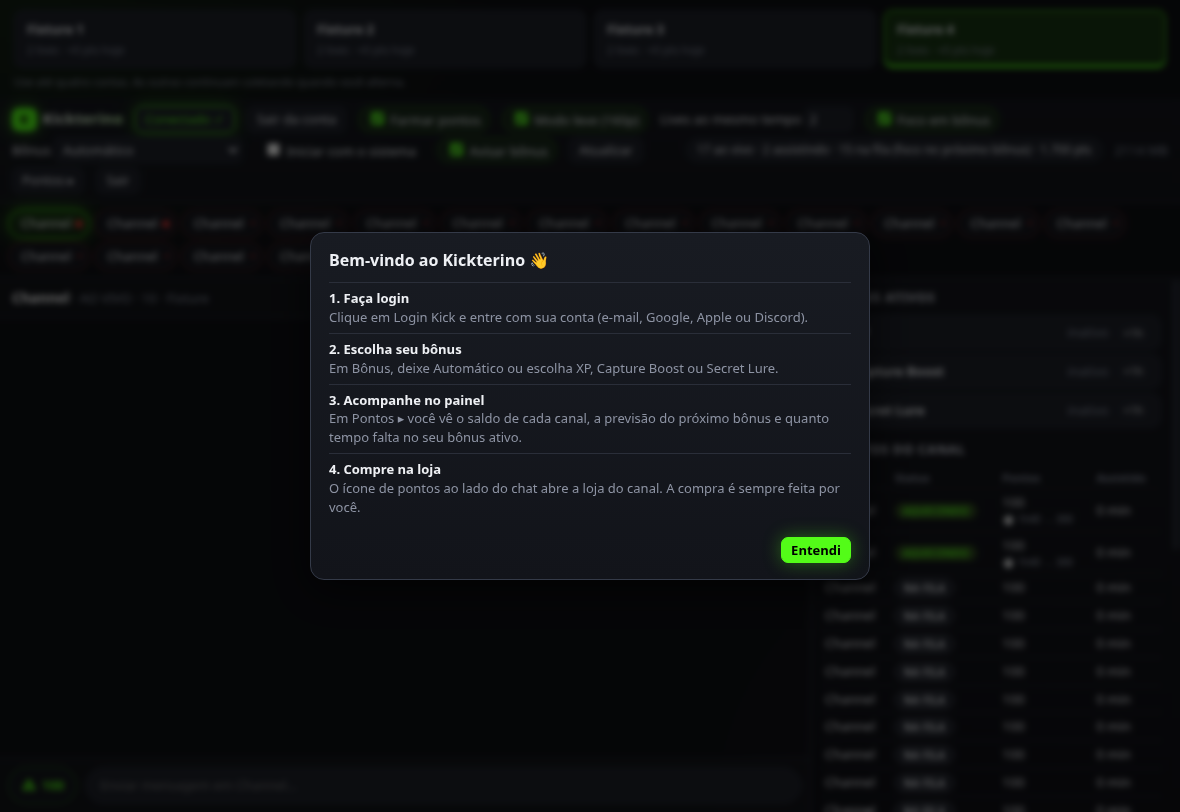
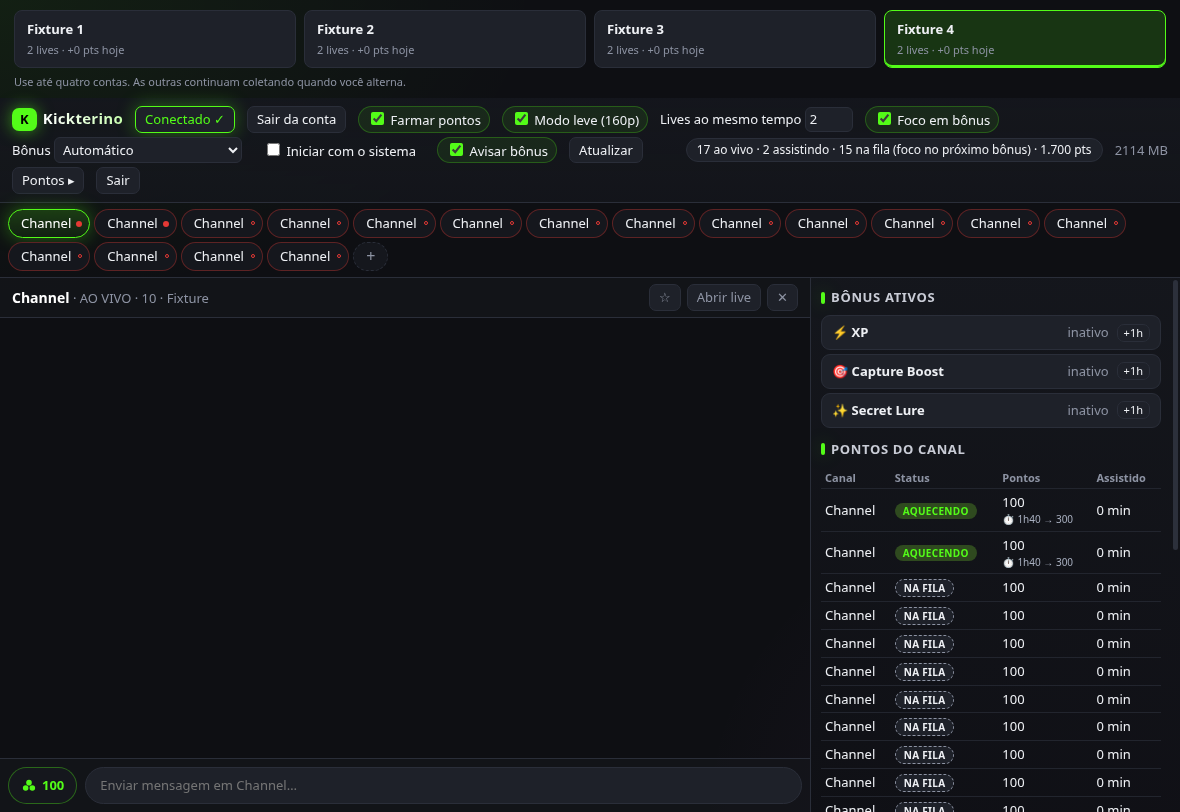
fix: address account lifecycle and validation review findings

diff --git a/account-runtime.js b/account-runtime.js
@@ -123,20 +123,6 @@ function lowestQualityOnly(playlist) {
   return [...head, ...variants[0]].join('\n') + '\n';
 }
 
-// Só a Kick e as páginas de login que ela usa abrem no app: nada de site de fora na mesma
-// sessão que guarda o login. Pop-ups de login abrem numa janela normal com a mesma sessão.
-const TRUSTED_DOMAINS = ['kick.com', 'google.com', 'accounts.youtube.com', 'apple.com', 'discord.com'];
-const GOOGLE_REGIONAL = /^accounts\.google\.(com?\.)?[a-z]{2}$/; // o Google passa pelo domínio do país no login
-
-function isTrustedUrl(url) {
-  if (url === 'about:blank') return true;
-  try {
-    const { protocol, hostname } = new URL(url);
-    return protocol === 'https:' && (GOOGLE_REGIONAL.test(hostname)
-      || TRUSTED_DOMAINS.some((d) => hostname === d || hostname.endsWith(`.${d}`)));
-  } catch { return false; }
-}
-
 // Página "vazia" em kick.com: mesma origem e cookies, mas sem carregar o site inteiro.
 const LIGHT_URL = `${KICK}/robots.txt`;
 
@@ -220,6 +206,7 @@ function sessionCurrent(epoch) { return !stopped && !suspended && epoch === sess
 function invalidateSession() {
   sessionEpoch++; apiClient.invalidate(); loggedIn = false; sessionChecking = true;
   storeSequence = null;
+  syncKeepAwake();
   stopLimitTest();
   for (const slug of [...watchers.keys()]) stopWatcher(slug);
   for (const win of [...storeWindows.values()]) if (!win.isDestroyed()) win.destroy();
@@ -808,6 +795,7 @@ function snapshot() {
   const now = Date.now();
   return {
     farming: config.farming,
+    today: config.daily[dayKey(now)] || 0,
     maxWatchers: config.maxWatchers,
     lowQuality: config.lowQuality,
     rotation: config.rotation,
@@ -886,7 +874,7 @@ async function poll() {
   } catch {
     if (sessionCurrent(epoch)) { invalidateSession(); username = null; }
   } finally {
-    polling = false;
+    polling = false; syncKeepAwake();
     send('status', snapshot()); updateTray();
   }
 }
@@ -895,8 +883,9 @@ async function poll() {
 // Impede o PC de suspender enquanto farma. O monitor pode apagar normalmente.
 let awakeBlocker = null;
 function syncKeepAwake() {
-  if (config.farming && awakeBlocker == null) awakeBlocker = powerSaveBlocker.start('prevent-app-suspension');
-  if (!config.farming && awakeBlocker != null) { powerSaveBlocker.stop(awakeBlocker); awakeBlocker = null; }
+  const shouldStayAwake = config.farming && loggedIn && !suspended && !stopped;
+  if (shouldStayAwake && awakeBlocker == null) awakeBlocker = powerSaveBlocker.start('prevent-app-suspension');
+  if (!shouldStayAwake && awakeBlocker != null) { powerSaveBlocker.stop(awakeBlocker); awakeBlocker = null; }
 }
 
 function setFarming(on) {

diff --git a/main.js b/main.js
@@ -91,11 +91,12 @@ const runtimes = ACCOUNT_IDS.map((id, index) => createAccountRuntime({
 const manager = createAccountManager({ runtimes });
 
 const TRUSTED_DOMAINS = ['kick.com', 'apple.com', 'discord.com', 'google.com', 'accounts.youtube.com'];
+const GOOGLE_REGIONAL = /^accounts\.google\.(com?\.)?[a-z]{2}$/;
 function isTrustedUrl(url) {
   if (url === 'about:blank') return true;
   try {
     const { protocol, hostname } = new URL(url);
-    return protocol === 'https:' && TRUSTED_DOMAINS.some(d => hostname === d || hostname.endsWith('.' + d));
+    return protocol === 'https:' && (GOOGLE_REGIONAL.test(hostname) || TRUSTED_DOMAINS.some(d => hostname === d || hostname.endsWith('.' + d)));
   } catch { return false; }
 }
 app.on('web-contents-created', (_event, wc) => {
